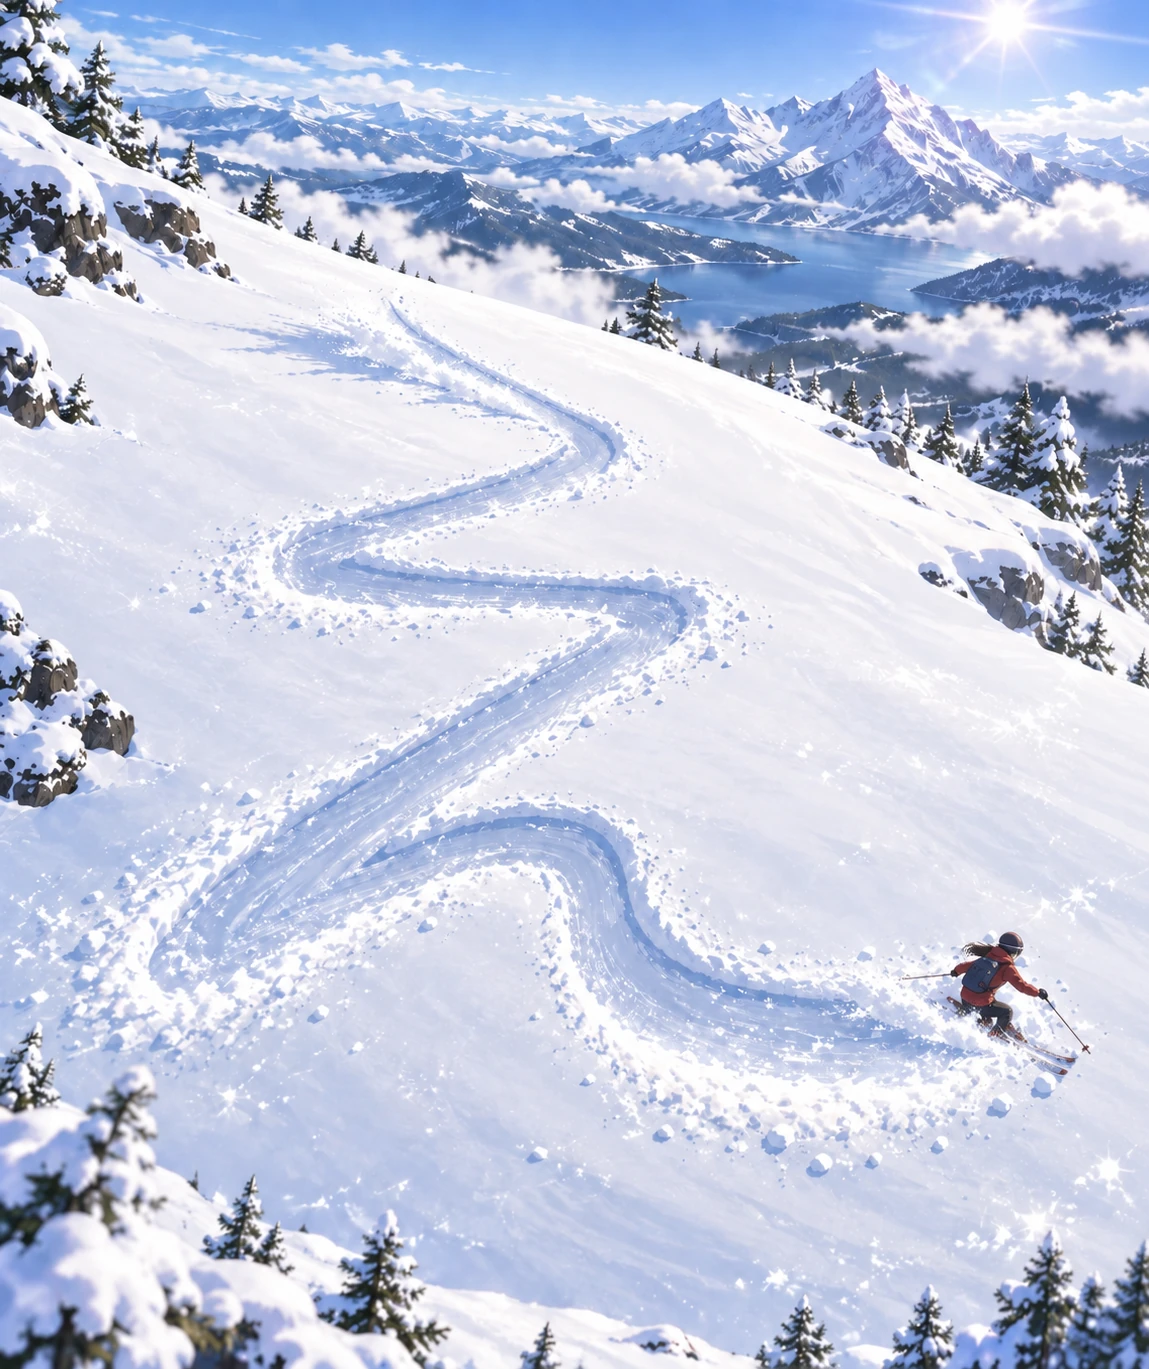
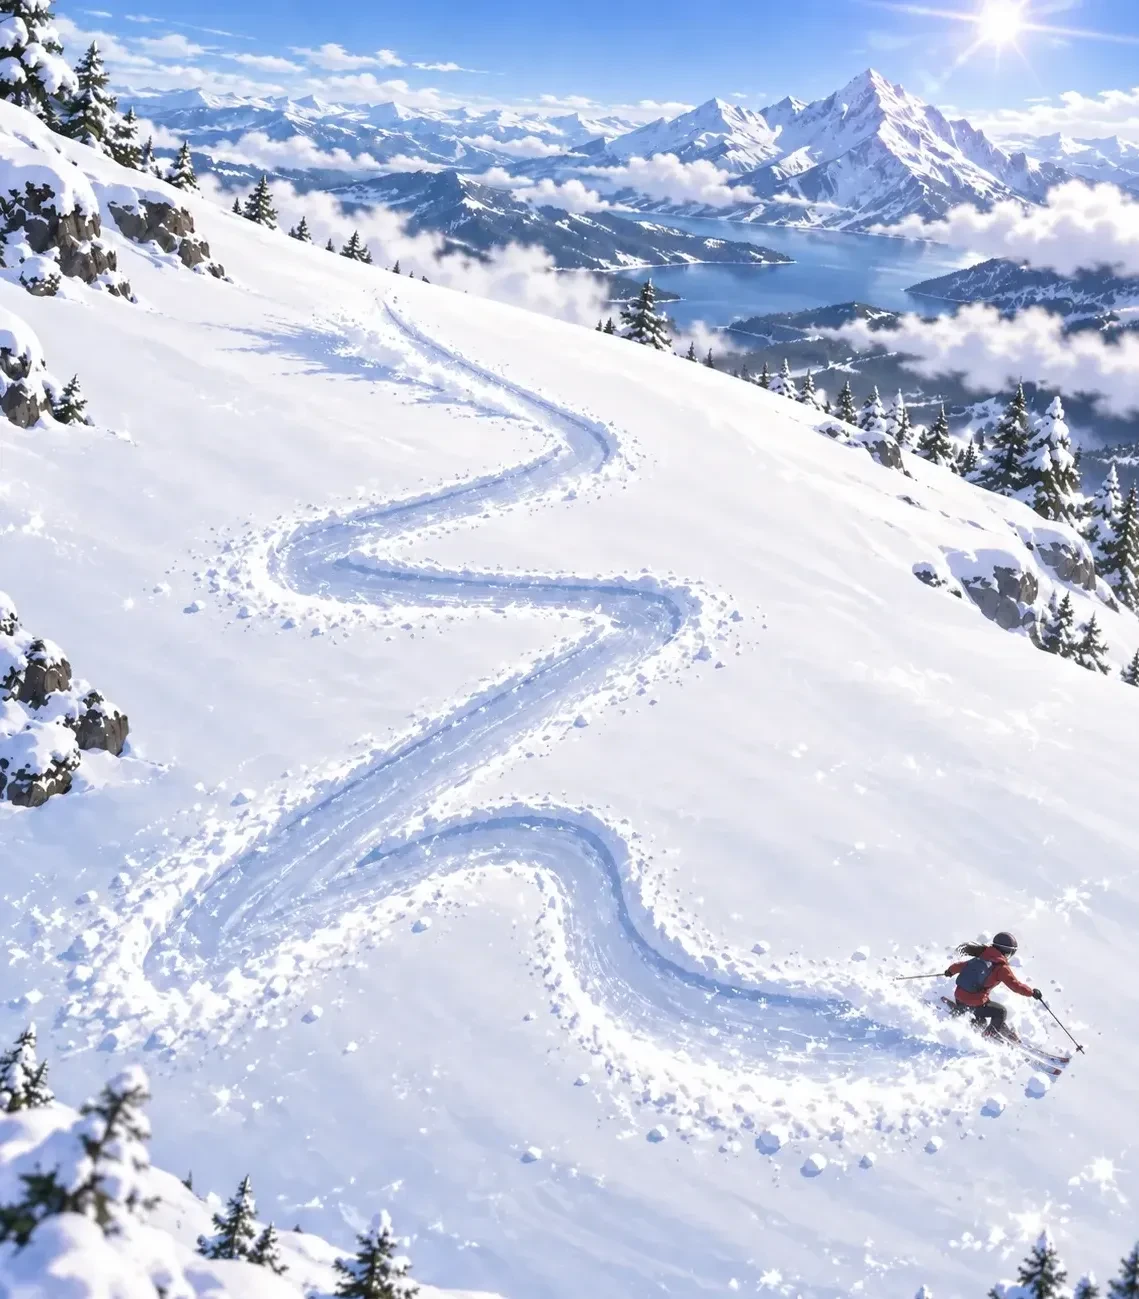
feat: center each kana on its illustration with one shared rule
Drop the per-kana strokeFit margins: the glyph now sits centred on the
drawing's own box at a single --glyph-size, and the illustrations are
cropped so their motif is in the middle.

diff --git a/src/aisle/book/mnemonic/KanaStroke.tsx b/src/aisle/book/mnemonic/KanaStroke.tsx
@@ -1,5 +1,4 @@
 import type { Kana } from '../../../content/types'
-import type { StyleWithVars } from '../../../shared/styleWithVars'
 import { BookButton } from '../parts/BookButton'
 import './KanaStroke.scss'
 
@@ -18,63 +17,64 @@ interface KanaStrokeProps {
 // Los trazos salen aquí desnudos: sin medidas ni líneas discontinuas. De cuánto
 // mide cada camino y de irlo descubriendo se encarga DrawSVGPlugin, que se lo
 // pregunta al navegador — ver `kanaStrokeAnimation.ts`.
+//
+// ── Dónde cae el kana ──────────────────────────────────────────────────────
+// Centrado sobre el DIBUJO y del mismo tamaño relativo en todas las hojas. No hay
+// un encaje por kana: la regla es una, y lo que se ajusta es la ilustración, que
+// se dibuja con su motivo en el centro. Ver `KanaStroke.scss`.
 export function KanaStroke({ kana }: KanaStrokeProps) {
-  // El encaje del kana sobre el dibujo llega como variables: los números son
-  // contenido —cambian con cada ilustración— y el CSS solo los coloca.
   const clipId = `kana-silhouette-${kana.id}`
-
-  const fit: StyleWithVars = {
-    '--fit-top': `${kana.strokeFit.top}%`,
-    '--fit-right': `${kana.strokeFit.right}%`,
-    '--fit-bottom': `${kana.strokeFit.bottom}%`,
-    '--fit-left': `${kana.strokeFit.left}%`,
-  }
 
   return (
     <div className="kana-stroke">
-      {/* La ilustración y el kana comparten caja, y esa caja se queda con todo
-          el alto que sobre después del botón. */}
+      {/* El hueco que queda después del botón. El dibujo se encaja dentro sin
+          deformarse, y casi nunca lo llena: sobra por los lados o por arriba y
+          abajo, según su proporción. */}
       <div className="kana-stroke__figure">
-        <img
-          className="kana-stroke__image"
-          src={kana.image}
-          alt={kana.imageAlt}
-        />
+        {/* La caja del DIBUJO, ceñida a él. Es a esta caja, y no al hueco, a la
+            que se refiere el kana: si no, en una hoja más ancha que el dibujo el
+            kana se medía contra papel vacío y salía más grande que la escena. */}
+        <div className="kana-stroke__frame">
+          <img
+            className="kana-stroke__image"
+            src={kana.image}
+            alt={kana.imageAlt}
+          />
 
-        {/* El kana conserva su proporción: se planta dentro del hueco que le da
-            `strokeFit` sin estirarse. Un あ deformado deja de ser un あ bien
-            escrito, y esto es material de estudio. */}
-        <svg
-          className="kana-stroke__glyph"
-          style={fit}
-          viewBox={kana.strokeViewBox}
-          preserveAspectRatio="xMidYMid meet"
-          // El kana ya está escrito al lado, en el texto de la página: para un
-          // lector de pantalla esto es decoración repetida.
-          aria-hidden="true"
-        >
-          <defs>
-            {/* La silueta del kana, que nunca se pinta: solo recorta.
-                El id lleva el del kana porque page-flip clona estas páginas, y
-                dos siluetas distintas con el mismo nombre se pisarían. */}
-            <clipPath id={clipId}>
-              <path d={kana.outline} />
-            </clipPath>
-          </defs>
+          {/* El kana conserva su proporción: se planta en el centro de la caja
+              sin estirarse. Un あ deformado deja de ser un あ bien escrito, y esto
+              es material de estudio. */}
+          <svg
+            className="kana-stroke__glyph"
+            viewBox={kana.strokeViewBox}
+            preserveAspectRatio="xMidYMid meet"
+            // El kana ya está escrito al lado, en el texto de la página: para un
+            // lector de pantalla esto es decoración repetida.
+            aria-hidden="true"
+          >
+            <defs>
+              {/* La silueta del kana, que nunca se pinta: solo recorta.
+                  El id lleva el del kana porque page-flip clona estas páginas, y
+                  dos siluetas distintas con el mismo nombre se pisarían. */}
+              <clipPath id={clipId}>
+                <path d={kana.outline} />
+              </clipPath>
+            </defs>
 
-          {/* Cada trazo es una brocha muy gorda recortada por la silueta: se ve
-              solo lo que cae dentro de la forma de la letra, y así el trazo sale
-              con su grosor real en cada punto en vez de como un tubo. */}
-          <g clipPath={`url(#${clipId})`}>
-            {kana.strokes.map((d, index) => (
-              <path
-                className="kana-stroke__path"
-                key={`${kana.id}-${index}`}
-                d={d}
-              />
-            ))}
-          </g>
-        </svg>
+            {/* Cada trazo es una brocha muy gorda recortada por la silueta: se ve
+                solo lo que cae dentro de la forma de la letra, y así el trazo sale
+                con su grosor real en cada punto en vez de como un tubo. */}
+            <g clipPath={`url(#${clipId})`}>
+              {kana.strokes.map((d, index) => (
+                <path
+                  className="kana-stroke__path"
+                  key={`${kana.id}-${index}`}
+                  d={d}
+                />
+              ))}
+            </g>
+          </svg>
+        </div>
       </div>
 
       {/* Sin `onClick`: este botón acaba clonado por page-flip, y un clon está

diff --git a/src/aisle/book/mnemonic/KanaStroke.scss b/src/aisle/book/mnemonic/KanaStroke.scss
@@ -17,32 +17,68 @@
   flex-direction: column;
   gap: 2cqh;
 
-  // La caja donde el kana se superpone al dibujo. Es la que se encoge; el botón
-  // mantiene su tamaño.
+  // El hueco del dibujo: todo el alto que sobra después del botón. Es el que se
+  // encoge; el botón mantiene su tamaño.
+  //
+  // Es contenedor de consulta para que el dibujo pueda medirse contra él —ver
+  // `&__image`—, y centra lo que lleva dentro en los dos ejes.
   &__figure {
-    position: relative;
     flex: 1;
     min-height: 0;
+    container-type: size;
+
+    display: flex;
+    align-items: center;
+    justify-content: center;
   }
 
-  // La ilustración y el trazo ocupan la MISMA caja: es lo que hace que el kana
-  // caiga siempre sobre la pose, se agrande el libro o se encoja.
+  // La caja del dibujo, ceñida a él: la pone el tamaño de la imagen, no el del
+  // hueco. Es el sistema de referencia del kana, así que el kana cae siempre en el
+  // mismo sitio del DIBUJO, sea la hoja alta o cuadrada.
+  //
+  // El tamaño del kana vive aquí, y es UNO para todos: `--glyph-size` es la parte
+  // del dibujo que ocupa, en cada eje, la caja donde se planta. El kana entra en
+  // ella sin deformarse y centrado, así que ocupa ese porcentaje por su lado más
+  // largo y algo menos por el otro. Es el número a mover si todos se ven grandes o
+  // pequeños; que caiga sobre el motivo es cosa de la ilustración, que va con el
+  // motivo en el centro.
+  &__frame {
+    --glyph-size: 60%;
+
+    position: relative;
+  }
+
+  // Encajada sin deformarse y sin agrandarse: los topes van en unidades del hueco
+  // y no en %, porque un % de alto dentro de una caja que se ciñe a su contenido
+  // no tiene contra qué medirse. Con los dos topes y el tamaño en `auto`, el
+  // navegador reduce la imagen conservando su proporción hasta que cabe.
   &__image {
-    width: 100%;
-    height: 100%;
-    object-fit: contain;
-  }
-
-  &__glyph {
-    position: absolute;
-    // Los cuatro números vienen del contenido, uno por ilustración.
-    top: var(--fit-top);
-    right: var(--fit-right);
-    bottom: var(--fit-bottom);
-    left: var(--fit-left);
+    display: block;
     width: auto;
     height: auto;
+    max-width: 100cqw;
+    max-height: 100cqh;
+  }
+
+  // El kana, en el centro de la caja del dibujo.
+  //
+  // El ancho y el alto van ESCRITOS, no deducidos de los márgenes. Un SVG es un
+  // elemento reemplazado, y con posición absoluta y alto `auto` el navegador saca
+  // el alto de su proporción e ignora el margen de abajo: el kana se salía por
+  // debajo del dibujo y tapaba el botón.
+  &__glyph {
+    position: absolute;
+    top: calc((100% - var(--glyph-size)) / 2);
+    left: calc((100% - var(--glyph-size)) / 2);
+    width: var(--glyph-size);
+    height: var(--glyph-size);
     overflow: visible;
+    // Transparente al puntero. Es decoración —ni se pulsa ni se lee, por eso va
+    // `aria-hidden`—, y los trazos, con su brocha gorda, pintan más allá de la
+    // caja. Cuando esa caja se salía por abajo tapaba el botón «Animar»: el clic se
+    // lo llevaba el SVG y page-flip lo tomaba por un clic en la hoja, así que
+    // pasaba página en vez de animar.
+    pointer-events: none;
   }
 
   &__path {

diff --git a/src/content/hiragana/kana.ts b/src/content/hiragana/kana.ts
@@ -56,10 +56,6 @@ export const HIRAGANA: Kana[] = [
       'M547,255L474,415L415,502L342,596L256,684L168,734L123,750L83,752L54,747L38,714L29,681L31,646L39,608L51,569L68,534L89,501L118,472L149,444L184,414L222,395L243,381L329,357L399,350L458,347L574,363L602,389L653,418L684,454L703,501L712,550L710,593L695,646L670,694L629,735L586,771L539,793L490,814L444,827L412,834',
     ],
     strokeViewBox: '0 0 743 857',
-    // Dónde se planta ese lienzo sobre la ilustración. Puesto a ojo sobre la
-    // pose de Arturo: son los cuatro números a mover si el kana no cae donde
-    // debe.
-    strokeFit: { top: 12, right: 12, bottom: 8, left: 15 },
   },
   {
     id: 'i',
@@ -97,15 +93,6 @@ export const HIRAGANA: Kana[] = [
       'M536,46L612,167L704,342',
     ],
     strokeViewBox: '0 0 739 557',
-    // Medido sobre el dibujo: el imperdible ocupa de un 22 % a un 79 % del ancho,
-    // y el trazo queda centrado sobre él.
-    //
-    // El encaje no puede ser perfecto y no es un fallo: el imperdible del dibujo
-    // es más alargado que い, que es un kana ancho y bajo (739 × 557). Como el SVG
-    // entra con `meet` y sin deformarse, ajusta por el ancho y se centra en
-    // vertical, así que los trazos no llegan ni a lo más alto del cuerpo ni a la
-    // punta de la aguja. Estos son los cuatro números a mover si cae torcido.
-    strokeFit: { top: 18, right: 21, bottom: 15, left: 22 },
   },
   {
     id: 'u',
@@ -137,10 +124,6 @@ export const HIRAGANA: Kana[] = [
     // lista mide lo mismo que `strokeOrder`.
     strokes: ['M157,29L406,127', 'M23,370L322,274L443,365L410,666L218,865'],
     strokeViewBox: '0 0 483 888',
-    // A ojo sobre el dibujo, y provisional: la brocha cae sobre la punta del
-    // pincel y la curva sobre la uña. Estos son los cuatro números a mover si el
-    // kana no cae donde debe.
-    strokeFit: { top: 17, right: 9, bottom: 33, left: 43 },
   },
   {
     id: 'e',
@@ -177,9 +160,6 @@ export const HIRAGANA: Kana[] = [
       'M73,324L466,273L48,797L287,510L404,512L425,592L445,759L511,799L719,779',
     ],
     strokeViewBox: '0 0 727 829',
-    // A ojo sobre el dibujo, y provisional: entra en la pasada única de encaje
-    // que se hará al cerrar el contenido del tomo 1.
-    strokeFit: { top: 20, right: 12, bottom: 20, left: 5 },
   },
   {
     id: 'o',
@@ -218,9 +198,6 @@ export const HIRAGANA: Kana[] = [
       'M549,174L771,310',
     ],
     strokeViewBox: '0 0 790 804',
-    // A ojo sobre el dibujo, y provisional: entra en la pasada única de encaje
-    // que se hará al cerrar el contenido del tomo 1.
-    strokeFit: { top: 6, right: 6, bottom: 6, left: 10 },
   },
   {
     id: 'ha',
@@ -259,9 +236,6 @@ export const HIRAGANA: Kana[] = [
       'M499,1L517,669L476,701L415,722L331,727L261,682L256,601L326,563L401,554L476,564L589,601L667,643L739,701',
     ],
     strokeViewBox: '0 0 760 775',
-    // A ojo sobre el dibujo, y provisional: entra en la pasada única de encaje
-    // que se hará al cerrar el contenido del tomo 1.
-    strokeFit: { top: 8, right: 10, bottom: 6, left: 8 },
   },
 ]
 

diff --git a/src/content/types.ts b/src/content/types.ts
@@ -3,20 +3,6 @@
 //
 // El contenido es dato: nada de esto se escribe dentro de un componente.
 
-// Dónde cae el kana sobre su ilustración mnemotécnica.
-//
-// Son márgenes en % de la caja de la ilustración, contados desde cada borde:
-// `{ top: 12, left: 15 }` deja el trazo empezando al 12 % de la altura y al 15 %
-// del ancho. Van en el contenido y no en el CSS porque el encaje cambia con cada
-// dibujo — el kana tiene que caer sobre la pose del personaje, y esa pose es
-// distinta en cada ilustración.
-export interface StrokeFit {
-  top: number
-  right: number
-  bottom: number
-  left: number
-}
-
 // Un kana de una palabra, con lo que suena.
 //
 // Van emparejados y no en dos listas paralelas —una de kana y otra de lecturas—
@@ -224,6 +210,10 @@ export interface Kana {
 
   // Ilustración mnemotécnica: ruta desde `public/`. Va LIMPIA, sin el kana
   // pintado encima — el trazo lo dibuja el SVG.
+  //
+  // El kana se pinta centrado sobre ella y siempre del mismo tamaño relativo, así
+  // que el motivo del dibujo tiene que ir en el CENTRO. No hay un encaje por kana
+  // que corrija un dibujo descentrado: se corrige el dibujo.
   image: string
   // Qué se ve en la ilustración, para quien no pueda verla.
   imageAlt: string
@@ -241,7 +231,8 @@ export interface Kana {
   strokes: string[]
   // Sistema de coordenadas en el que están escritos la silueta y los trazos.
   // Los dos comparten lienzo, o el recorte no cuadraría.
+  //
+  // Ceñido a la silueta, sin aire alrededor: es lo que hace que centrar el lienzo
+  // sobre el dibujo sea centrar el KANA. Con margen en un lado, saldría desplazado.
   strokeViewBox: string
-  // Cómo se encaja el kana sobre la ilustración.
-  strokeFit: StrokeFit
 }
